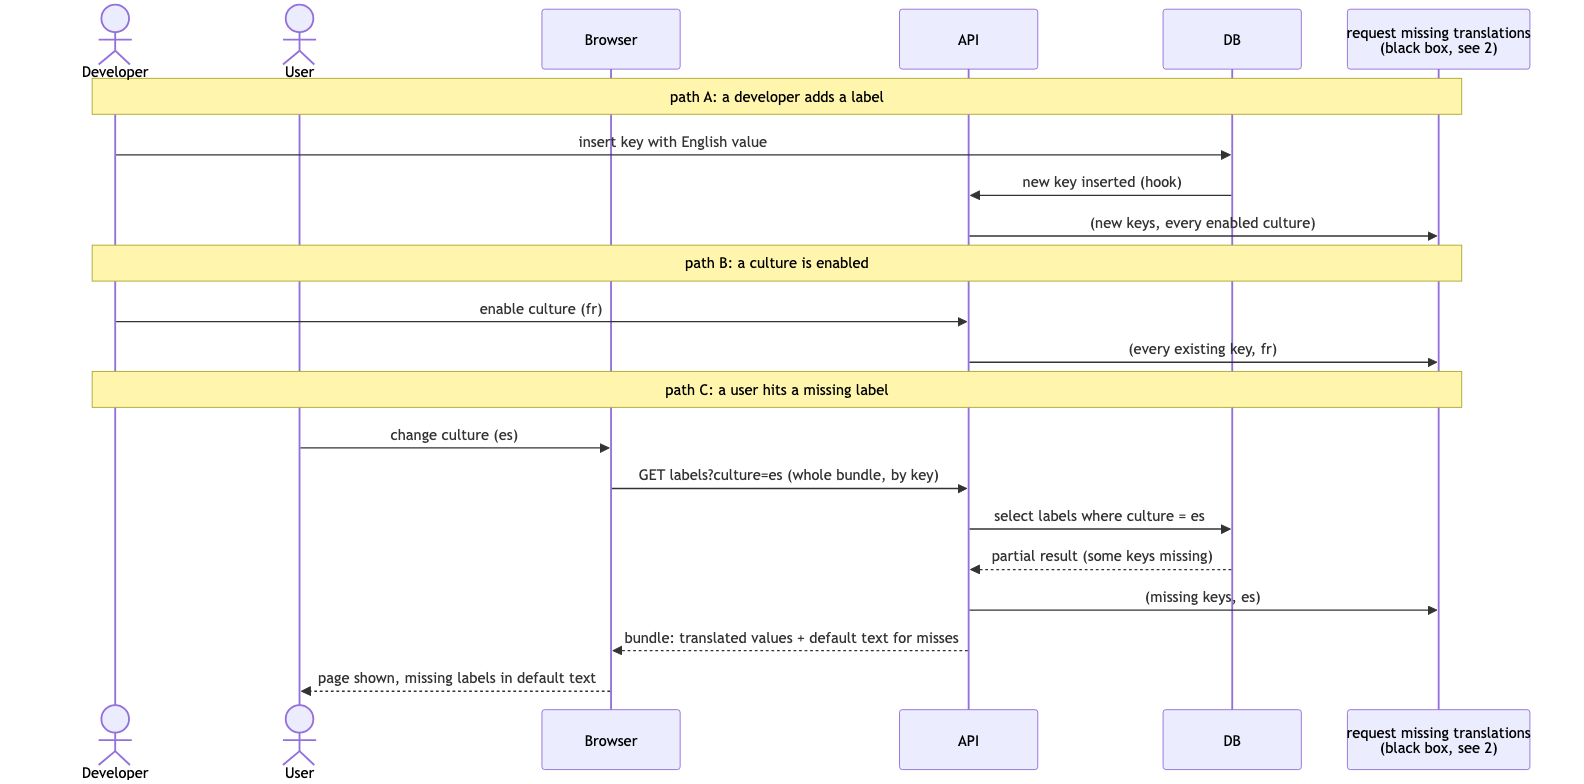
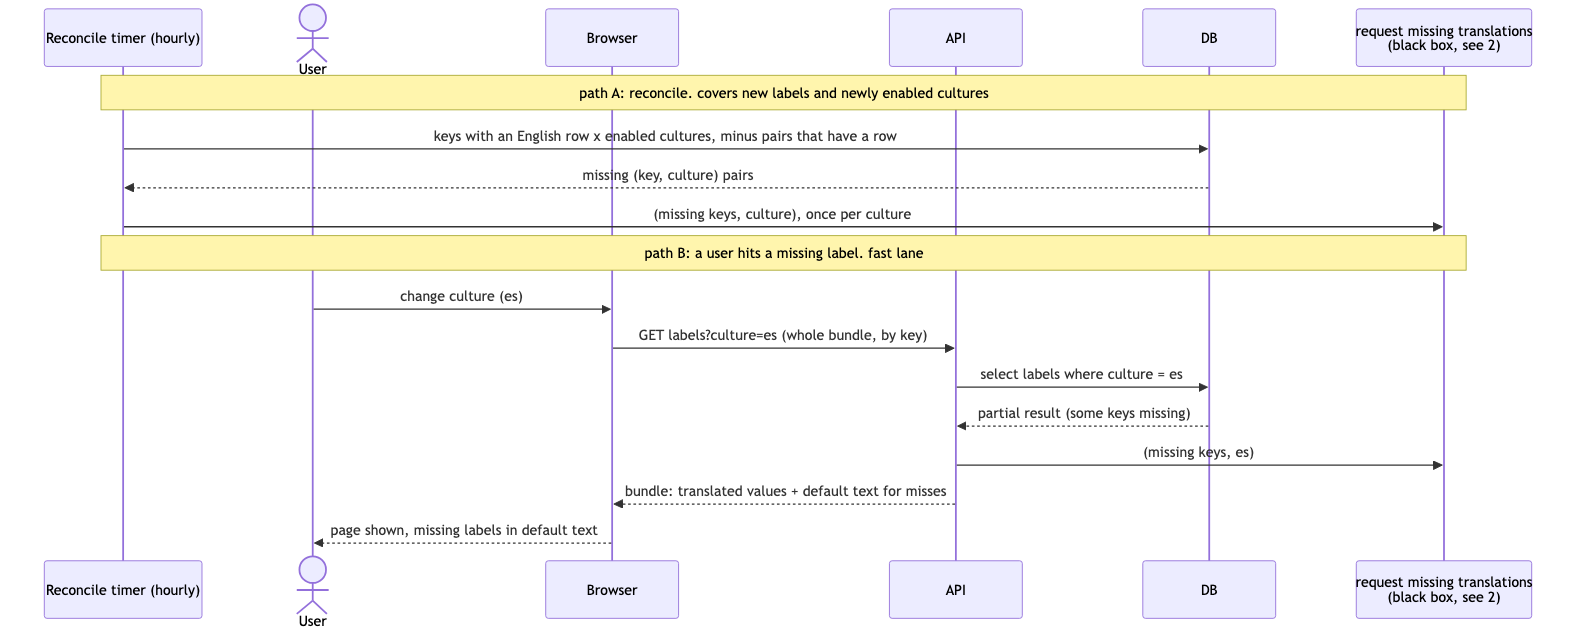
v3: hourly reconcile timer replaces the label-insert hook

Changed region(s): [[0.0309, 0.0, 0.9899, 0.9921], [0.0309, 0.8718, 0.1237, 1.0], [0.7115, 0.0, 0.8043, 0.0601]]

diff --git a/v3/feasibility.md b/v3/feasibility.md
@@ -36,20 +36,20 @@ one message. The publish must come after the upsert so a crash between them
 leaves a pending row that the sweep recovers, rather than a message with no
 row. Chunk the publish at a couple hundred keys per message.
 
-The function has three callers:
+The function has two callers:
 
-- The bundle endpoint, on a miss. This is the safety net.
-- The place where English labels are inserted, once per enabled culture, so a
-  new label is translated before anyone opens the page.
-- The place where a culture is enabled, for every existing key. This replaces
-  a separate backfill command.
+- The bundle endpoint, on a miss. This is the fast lane: it fires the moment
+  a user hits a missing label.
+- The hourly reconcile timer in the Func app. One query: every key with an
+  English row, crossed with every enabled culture, minus pairs that already
+  have a row. It calls the function once per culture with what is left. This
+  covers a developer adding a label, a culture being enabled, and anything
+  that slipped through, with no hook into the insert path and no backfill
+  command. Latency is up to an hour, which is fine because the miss path
+  covers anyone who opens the page sooner.
 
-Where the second and third callers live depends on how English labels and
-cultures enter the DB today, which I have not checked. If English values
-arrive through the seed script, the hook is a step at the end of that script.
-If they arrive through an admin endpoint or a migration, the hook goes there.
-Either way the function runs only in staging, behind an explicit flag, since
-that is the only environment with the queue and the Func app.
+The function runs only in staging, behind an explicit flag, since that is
+the only environment with the queue and the Func app.
 
 Schema: `status` enum of pending, machine, reviewed. `pending_at` timestamp.
 `pr_ref` nullable string. `source_text` so the seed file and the AI prompt do
@@ -103,8 +103,10 @@ personal token. The four REST calls needed, create ref, put contents, create
 pull, request reviewers, are all in the Octokit SDKs. Rate limits are
 thousands per hour per installation, irrelevant at this volume.
 
-Sweep: timer trigger hourly. Selects rows pending longer than an hour, groups
-by culture, republishes, refreshes `pending_at`. Ten lines.
+Reconcile: timer trigger hourly, two queries. First, the missing-pairs query
+above, calling request missing translations per culture. Second, rows pending
+longer than an hour, grouped by culture, republished with `pending_at`
+refreshed. Twenty lines.
 
 Secrets: AI key and GitHub App private key in Key Vault, referenced from app
 settings. Managed identity for Service Bus and the DB so there are no
@@ -154,9 +156,10 @@ deploy job.
 
 ## Risks and open questions
 
-- **Hook placement is unverified.** The insert-label and enable-culture hooks
-  remove the dependence on staging traffic, but where they attach depends on
-  how English labels enter the DB. Confirm that path before writing the issue.
+- **Reconcile query cost.** The missing-pairs query is a cross join of keys
+  and cultures with an anti-join. A few thousand keys times a handful of
+  cultures is trivial hourly. If the label table grows past a hundred
+  thousand rows, index (culture, key) and re-check the plan.
 - **Source text changes.** If the English label changes after translation,
   the reviewed value is stale and nothing flags it. Out of scope for now.
   Storing `source_text` on the row makes a later staleness check possible.
@@ -180,11 +183,11 @@ In build order. Each is one branch, one merge, one verification on staging.
 3. API bundle endpoint with miss detection, pending upsert, and publish.
 4. Func app skeleton with managed identity, Key Vault, `maxConcurrentCalls` 1.
 5. Translate function: AI client behind an interface, validation, guarded upsert.
-6. Sweep function.
+6. Reconcile timer: missing-pairs query plus stale-pending republish.
 7. GitHub App registration and PR step function.
 8. Seed script and deploy step.
-9. Hook request-missing-translations into label insert and culture enable,
-   gated to staging.
+9. Staging-only flag on request missing translations, and the enabled
+   cultures list the reconcile query reads.
 10. End-to-end verification on staging: force a miss, watch the PR appear,
     merge, deploy, confirm the reviewed value.
 

diff --git a/v3/1-requesting-translations.md b/v3/1-requesting-translations.md
@@ -1,38 +1,36 @@
 # 1. Requesting translations
 
-Three events can ask for a translation. All three end in the same function,
-"request missing translations", drawn here as a black box and explained in
+Two callers ask for translations. Both end in the same function, "request
+missing translations", drawn here as a black box and explained in
 [2-request-missing-translations.md](2-request-missing-translations.md).
 
-- A developer inserts a new label with its English value. The hook asks for
-  every enabled culture, so the label is translated before anyone opens the
-  page.
-- A culture is enabled. The hook asks for every existing key.
-- A user opens a page and a label is missing for their culture. The page
-  renders with default text, and the miss is requested in the background.
-  This is the safety net for anything the first two paths missed.
+- **Reconcile timer, hourly.** One query finds every (key, culture) pair
+  that should exist and does not: every key with an English row, crossed with
+  every enabled culture, minus pairs that already have a row. Whatever is
+  left is requested. This covers a developer adding a label, a culture being
+  enabled, and anything else that slipped through, with no hook into the
+  insert path.
+- **A user hits a missing label.** The page renders with default text and
+  the miss is requested in the background. This is the fast lane: it fires
+  immediately, while the timer catches up within the hour.
 
 All of this runs in staging only.
 
 ```mermaid
 sequenceDiagram
-    actor Dev as Developer
+    participant Timer as Reconcile timer (hourly)
     actor User
     participant Browser
     participant API
     participant DB
     participant RMT as request missing translations<br/>(black box, see 2)
 
-    Note over Dev,RMT: path A: a developer adds a label
-    Dev->>DB: insert key with English value
-    DB->>API: new key inserted (hook)
-    API->>RMT: (new keys, every enabled culture)
+    Note over Timer,RMT: path A: reconcile. covers new labels and newly enabled cultures
+    Timer->>DB: keys with an English row x enabled cultures, minus pairs that have a row
+    DB-->>Timer: missing (key, culture) pairs
+    Timer->>RMT: (missing keys, culture), once per culture
 
-    Note over Dev,RMT: path B: a culture is enabled
-    Dev->>API: enable culture (fr)
-    API->>RMT: (every existing key, fr)
-
-    Note over Dev,RMT: path C: a user hits a missing label
+    Note over Timer,RMT: path B: a user hits a missing label. fast lane
     User->>Browser: change culture (es)
     Browser->>API: GET labels?culture=es (whole bundle, by key)
     API->>DB: select labels where culture = es

diff --git a/v3/label-localization-sequence.md b/v3/label-localization-sequence.md
@@ -12,12 +12,12 @@ audit log. The Func app never merges and never deploys.
 The flow is drawn in four parts, each in its own file. This page is the
 overview, with each part collapsed to one box.
 
-1. [Requesting translations](1-requesting-translations.md): the three events
-   that ask for a translation. Developer adds a label, culture is enabled,
-   user hits a missing label.
+1. [Requesting translations](1-requesting-translations.md): the two callers
+   that ask for a translation. An hourly reconcile timer that finds every
+   missing (key, culture) pair, and a user hitting a missing label.
 2. [Inside "request missing translations"](2-request-missing-translations.md):
-   the shared function all three call. Dedup, pending rows, chunked publish,
-   hourly sweep.
+   the shared function both call. Dedup, pending rows, chunked publish, and
+   the stale-pending recovery on the same timer.
 3. [Translating and opening the PR](3-translate-and-open-pr.md): queue to AI
    to DB, then the idempotent PR step.
 4. [Review and delivery](4-review-and-delivery.md): reviewer merges, seed
@@ -27,7 +27,7 @@ Feasibility: [feasibility.md](feasibility.md).
 
 ```mermaid
 sequenceDiagram
-    actor People as Developer / User
+    actor People as Reconcile timer / User
     participant App as App (API + DB)
     participant RMT as 1+2 request missing<br/>translations
     participant Queue as Service bus queue
@@ -36,7 +36,7 @@ sequenceDiagram
     actor Team as Localization team
     participant Deploy as 4 Deploy + seed script
 
-    People->>App: add a label / enable a culture / hit a missing label
+    People->>App: hourly reconcile / hit a missing label
     App->>RMT: (keys, culture)
     RMT->>Queue: batched message
     Queue->>Func: trigger

diff --git a/v3/2-request-missing-translations.md b/v3/2-request-missing-translations.md
@@ -12,8 +12,9 @@ Rules:
 - Chunk at a couple hundred keys per message. Message ID is a hash of the
   chunk's sorted keys plus the culture, so Service Bus duplicate detection
   drops a repeat inside the window.
-- An hourly sweep republishes rows pending longer than an hour and refreshes
-  their timestamp, so a dead-lettered batch does not leave keys stuck.
+- The hourly reconcile timer also republishes rows pending longer than an
+  hour and refreshes their timestamp, so a dead-lettered batch does not leave
+  keys stuck. Same timer as in part 1, second query.
 - Runs only in staging, behind an explicit flag.
 
 ```mermaid
@@ -22,7 +23,7 @@ sequenceDiagram
     participant RMT as request missing translations
     participant DB
     participant Queue as Service bus queue
-    participant Sweep as Sweep (hourly timer)
+    participant Sweep as Reconcile timer (hourly)
 
     Caller->>RMT: (keys, culture)
     RMT->>DB: select existing rows for (keys, culture)
@@ -35,7 +36,7 @@ sequenceDiagram
     end
     RMT-->>Caller: return immediately
 
-    Note over DB,Sweep: recovery, independent of any caller
+    Note over DB,Sweep: recovery, same timer as part 1, second query
     Sweep->>DB: select rows pending longer than 1 hour
     DB-->>Sweep: stale pending rows, grouped by culture
     Sweep->>Queue: republish each group
